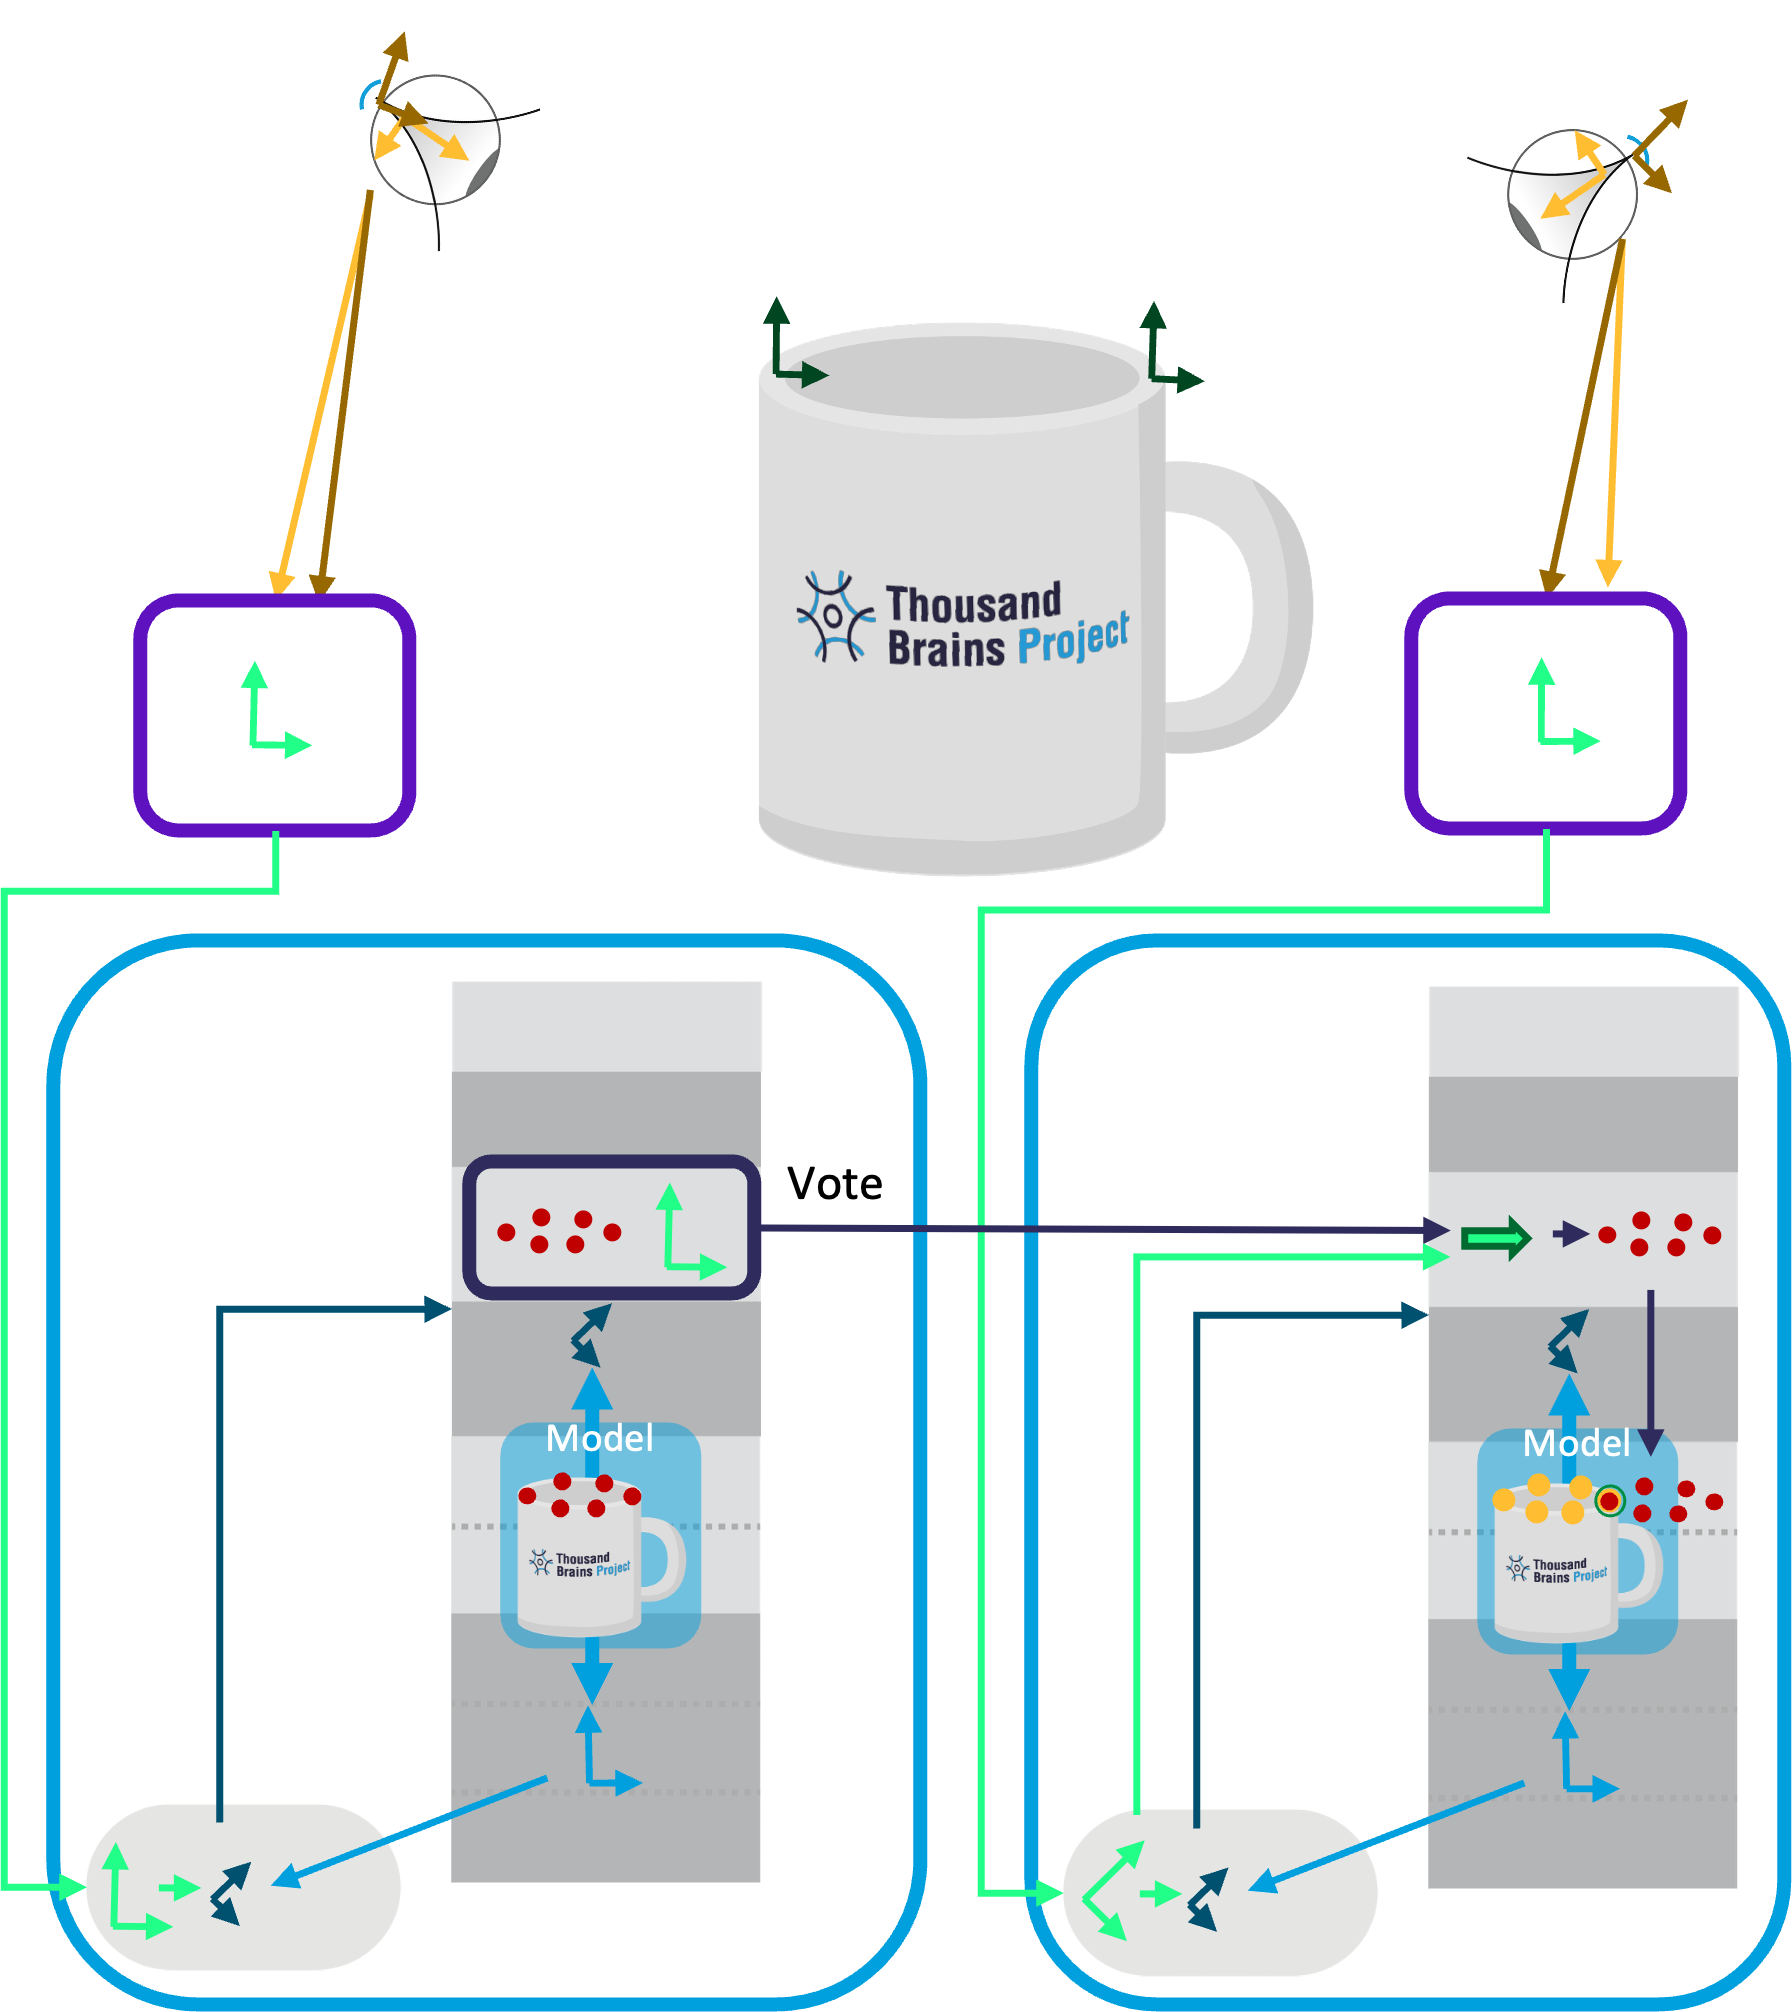
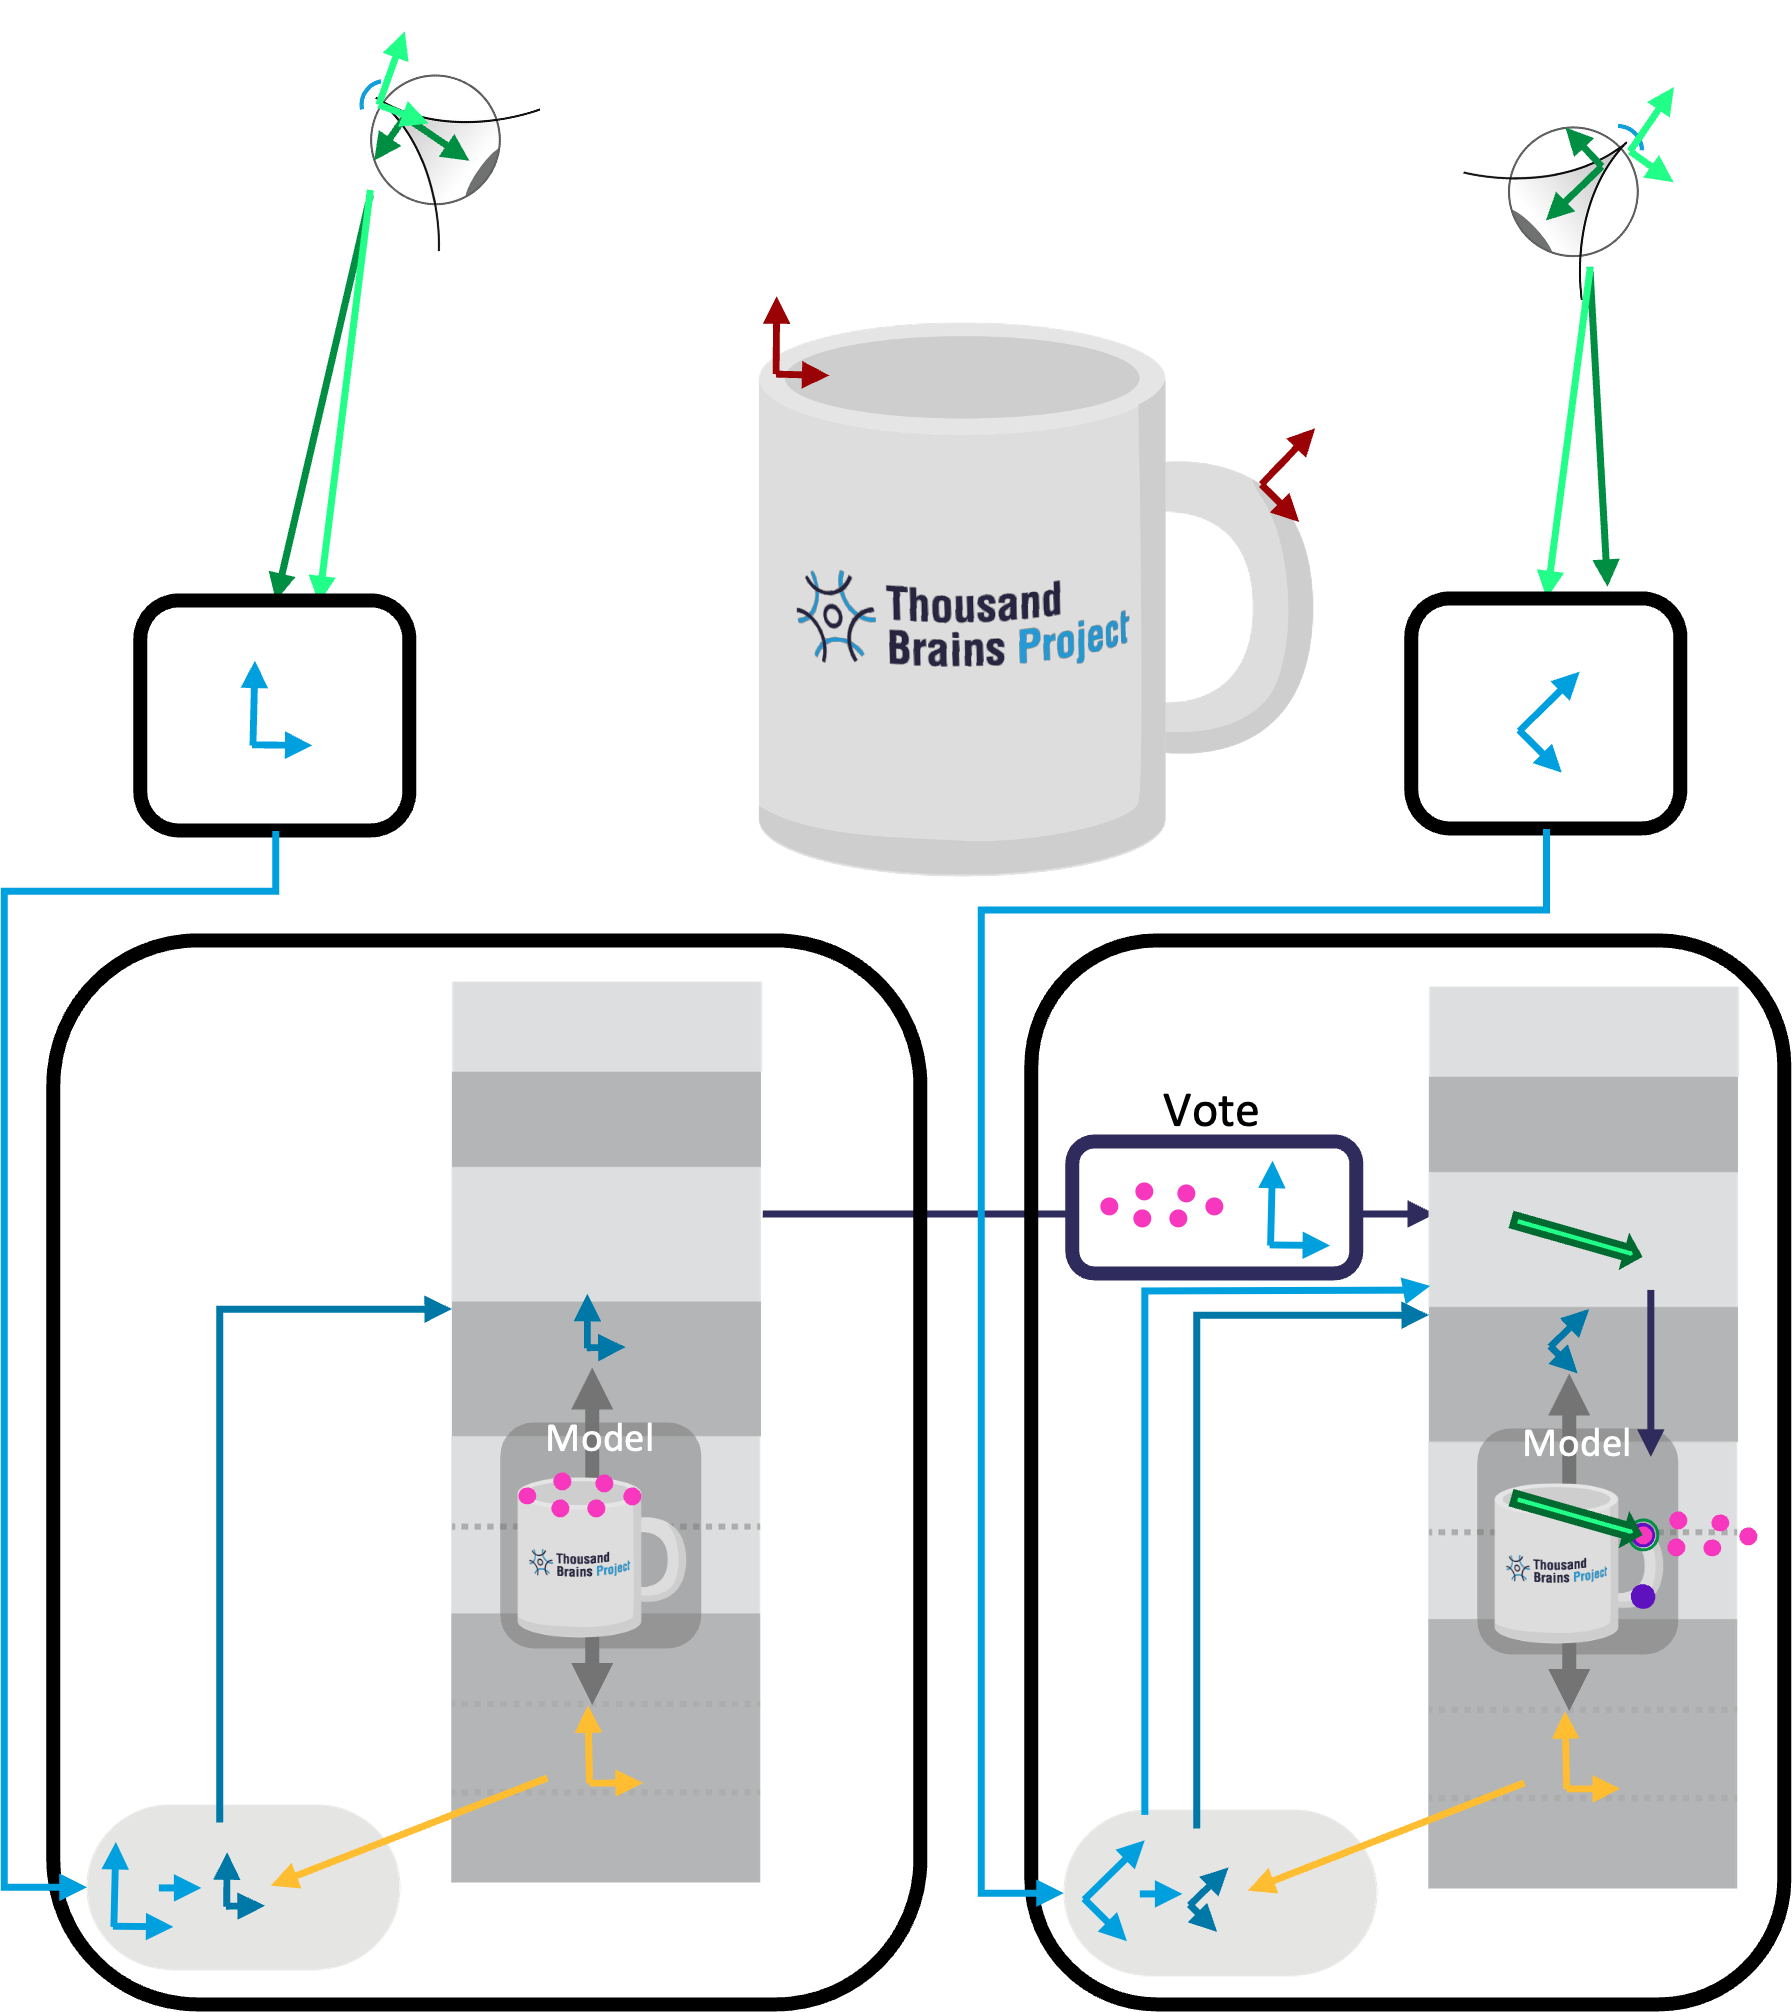
update figure & animation colors

diff --git a/docs/how-monty-works/monty/reference-frame-transformations.md b/docs/how-monty-works/monty/reference-frame-transformations.md
@@ -6,17 +6,17 @@ In a sensorimotor learning setup, one naturally encounters several different ref
 # Reference Frames in a Typical Monty Experiment
 ![](../../figures/how-monty-works/reference_frames_overview.png)
 
-### 🟢 Object rel. World
+### 🔴 Object rel. World
 The orientation of the object in the world (unknown to Monty). For instance, if we use a simulator, this would be the configuration that specifies where the object is placed in the environment (like we do [here](https://github.com/thousandbrainsproject/tbp.monty/blob/4844ef17a4cadce455acb8d852fe3ed7038a298f/src/tbp/monty/frameworks/config_utils/make_dataset_configs.py#L229)). In the real world we don't have a specific origin, but all objects are still in a common reference frame with relative displacements between each other.
-### 🟢⚫ Feature rel. Object
+### 🔴⚫ Feature rel. Object
 The pose of all the features on the object (also unknown to the Monty). For instance, if you use a 3D simulator, this could be defined in the object meshes.
-### 🟡 Sensor rel. World/Body
+### 🟢⚫ Sensor rel. World/Body
 The sensor’s location and orientation in the world can be estimated from proprioceptive information and motor efference copies. Basically, as the system moves its sensors, it can use this information to update the locations of those sensors in a common reference frame. For the purposes of Monty it doesn't matter where the origin of this RF is (it could be the agent's body or an arbitrary location in the environment) but it matters that all sensor locations are represented in this common RF. Lastly, it's worth noting that in simulation environments, this pose estimation can be perfect / error-free if desired. 
-### 🟠 Feature rel. Sensor
+### 🟢⚪ Feature rel. Sensor
 This is the feature's orientation relative to the sensor. For instance in Monty, we often use the surface normal and curvature direction to define the sensed pose, which are extracted from the depth image of the sensor ([code](https://github.com/thousandbrainsproject/tbp.monty/blob/main/src/tbp/monty/frameworks/models/sensor_modules.py#L161-L167)).
-### 🟢⚪ Feature rel. World/Body
+### 🔵 Feature rel. World/Body
 The estimated orientation of the sensed feature in the world (sensor_rel_world * feature_rel_sensor). In Monty, this currently happens to the depth values in [DepthTo3DLocations](https://github.com/thousandbrainsproject/tbp.monty/blob/4844ef17a4cadce455acb8d852fe3ed7038a298f/src/tbp/monty/frameworks/environment_utils/transforms.py#L220) while the surface normal and curvature extraction then happens in the SM, but in the end you get the same results.
-### 🔵 Object rel. Model
+### 🟡 World rel. Model
 This is the hypothesized orientation of the learned model relative to the object (in the world). This orientation needs to be inferred by the LM based on its sensory inputs. There are usually multiple hypotheses which Monty learning modules keeps track of in [`self.possible_poses`](https://github.com/thousandbrainsproject/tbp.monty/blob/4844ef17a4cadce455acb8d852fe3ed7038a298f/src/tbp/monty/frameworks/models/evidence_matching/learning_module.py#L227)
 ### 🔵⚫ Feature rel. Model
 This is the rotation of the currently sensed feature relative to the object model in the LM (feature_rel_world * object_rel_model, see code [here](https://github.com/thousandbrainsproject/tbp.monty/blob/main/src/tbp/monty/frameworks/models/evidence_matching/hypotheses_displacer.py#L141-L142)). The learning module uses its pose hypothesis to transform the feature relative to the world into its object's reference frame so that it can recognize the object in any orientation and location in the world, independent of where it was learned.
@@ -51,7 +51,7 @@ What is not shown in the visualizations above is that the same rotation transfor
 
 Before we can apply the movement to update our hypothesized location on the object, the movement needs to be transformed from a movement in the world to movement in the object's reference frame. To do this, the hypothesized object orientation (light blue) is applied, the same way it is applied to the incoming features. So for example, if object is rotated by 90 degrees to the left and the sensor moved right to left on the object (like in the animation shown below), then the orientation transform will update the location on the object model (red dot) to change from bottom to top of the object. 
 
-![](../../figures/how-monty-works/MovementTransform.gif)
+![](../../figures/how-monty-works/movement_transform.gif)
 
 Applying the hypothesized object rotation to both the incoming movement and features means that Monty can recognize the object in any new location and orientation in the world.
 
